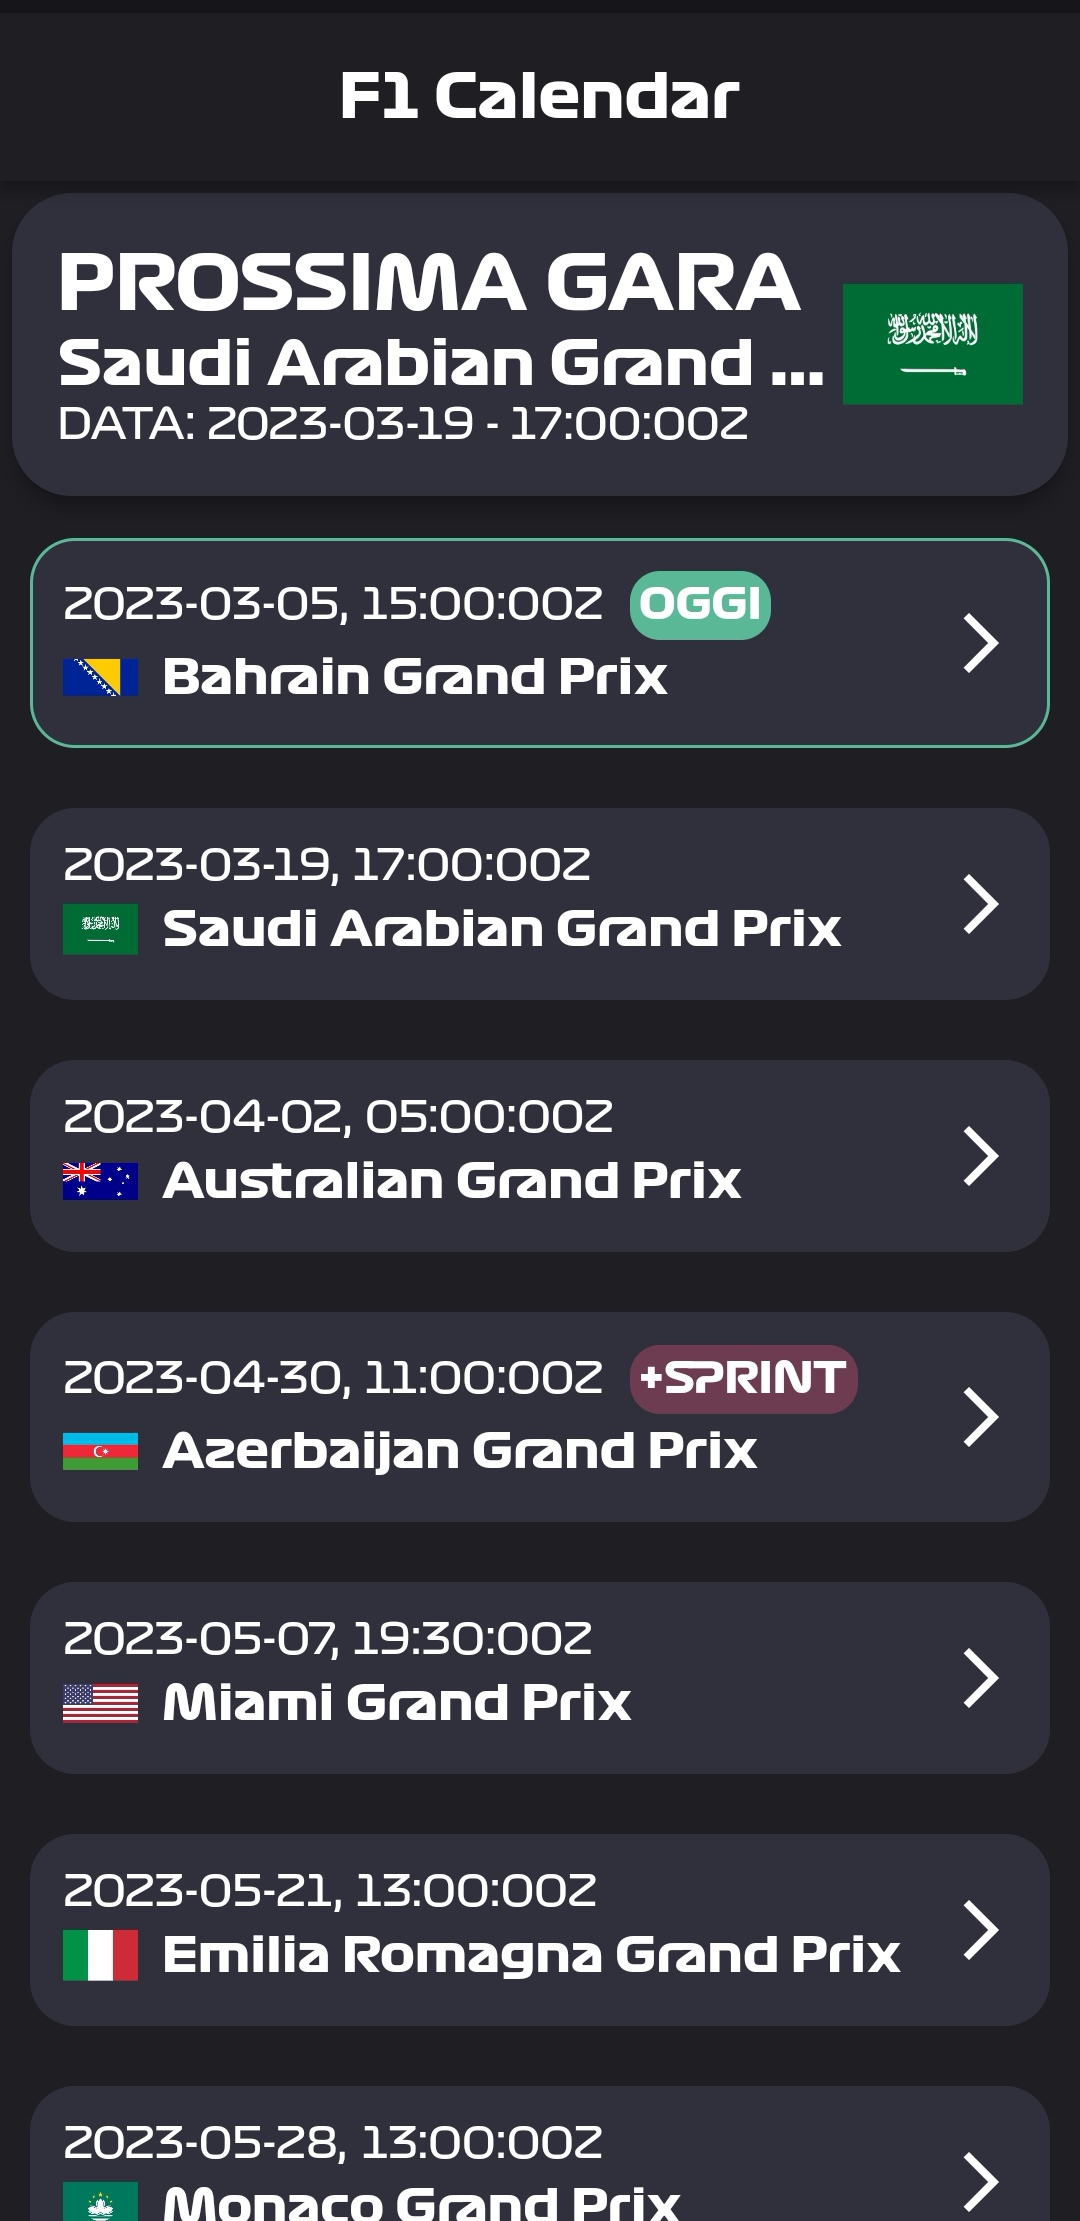
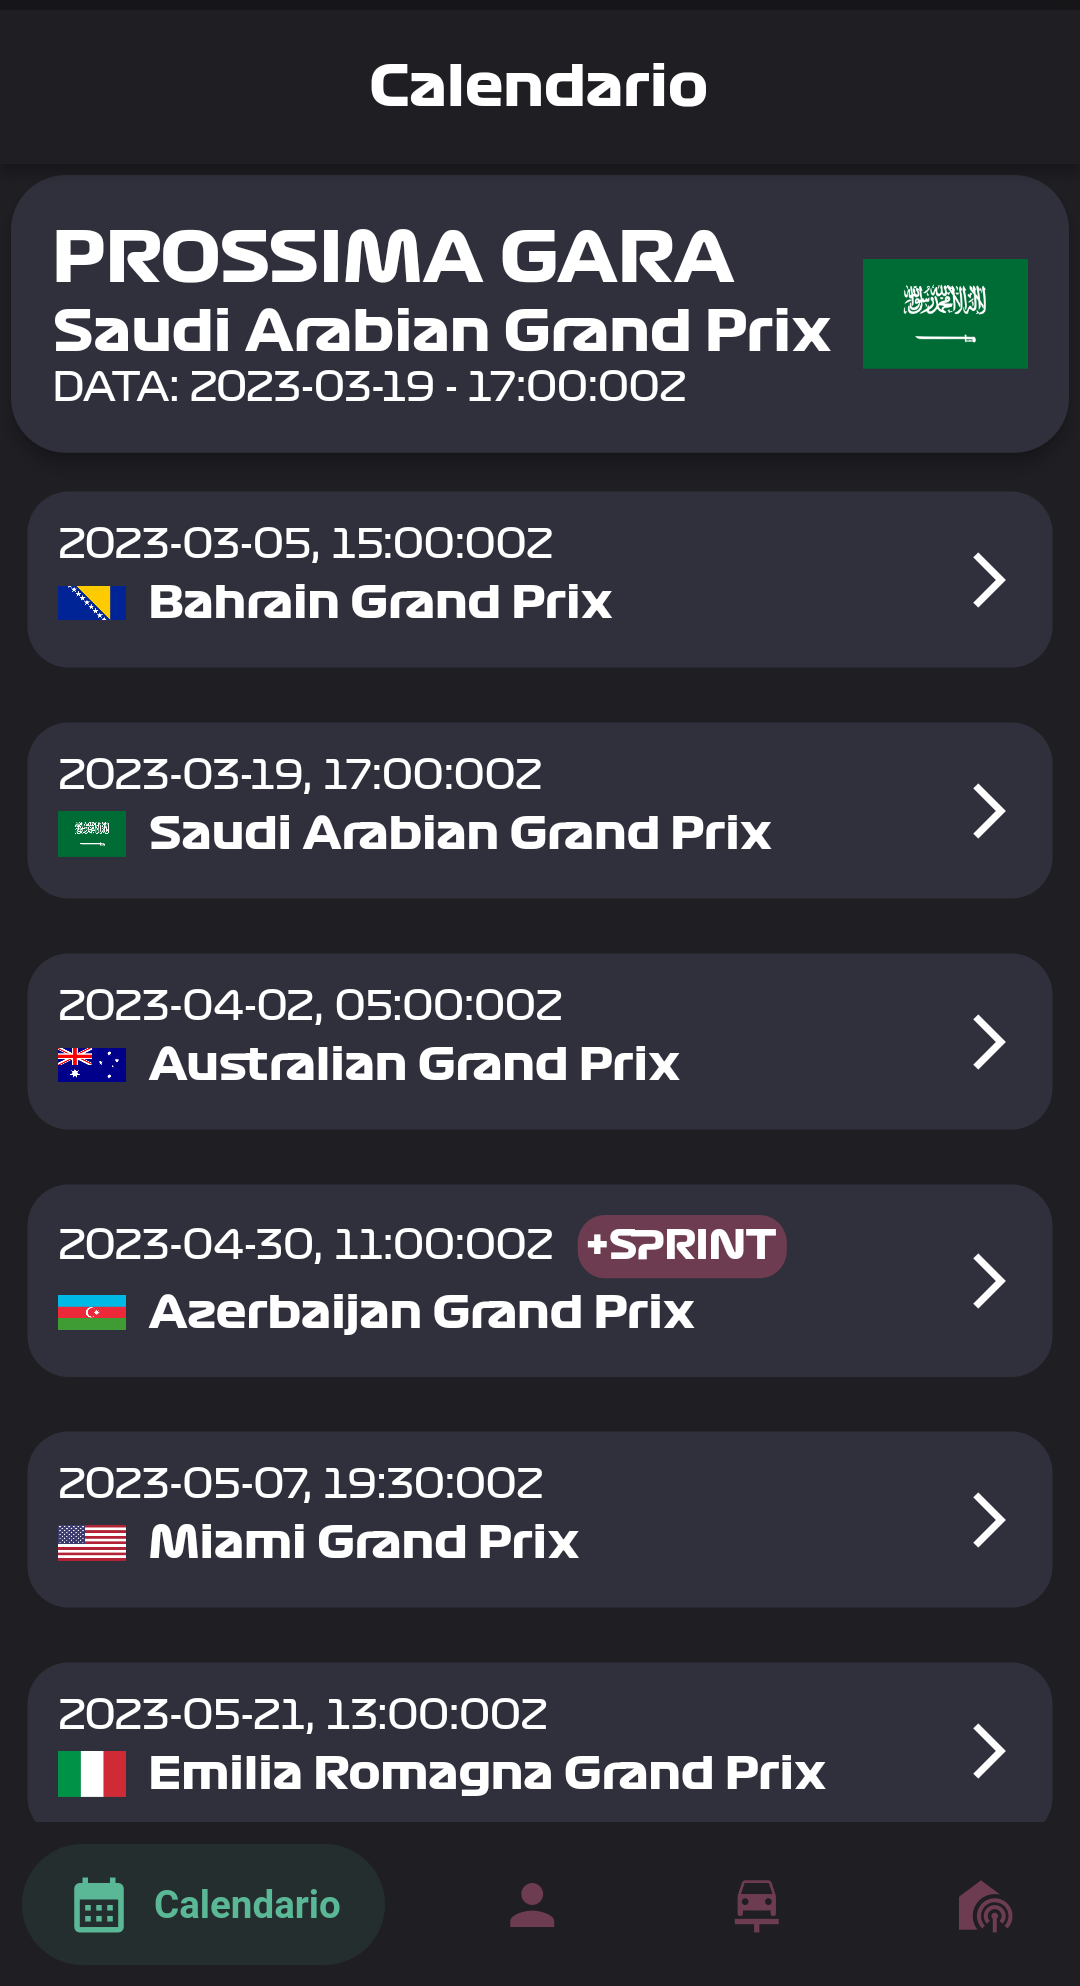
added bottom navigation

diff --git a/lib/common/bottom_bar.dart b/lib/common/bottom_bar.dart
@@ -1,0 +1,87 @@
+import "package:flutter/material.dart";
+import "package:paddock_club/pages/calendar_page.dart";
+import "package:paddock_club/pages/driver_stand.dart";
+import "package:paddock_club/pages/team_overview.dart";
+import "package:paddock_club/pages/team_standing.dart";
+import "package:salomon_bottom_bar/salomon_bottom_bar.dart";
+
+import "colors.dart";
+
+Widget? getBottomBar(int index, BuildContext context) {
+  return SalomonBottomBar(
+    currentIndex: index,
+    unselectedItemColor: AppColor.detailsSecondary,
+    onTap: (i) {
+      switch (i) {
+        case 0:
+          Navigator.pushReplacement(
+            context,
+            MaterialPageRoute(
+              builder: (context) => const CalendarPage(),
+            ),
+          );
+          break;
+        case 1:
+        Navigator.pushReplacement(
+            context,
+            MaterialPageRoute(
+              builder: (context) => const DriverStandingPage(),
+            ),
+          );
+          break;
+        case 2:
+        Navigator.pushReplacement(
+            context,
+            MaterialPageRoute(
+              builder: (context) => const TeamStandingPage(),
+            ),
+          );
+          break;
+        case 3:
+        Navigator.pushReplacement(
+            context,
+            MaterialPageRoute(
+              builder: (context) => const TeamOverviewPage(),
+            ),
+          );
+          break;
+        default:
+          Navigator.push(
+            context,
+            MaterialPageRoute(
+              builder: (context) => const CalendarPage(),
+            ),
+          );
+      }
+    },
+    items: [
+      /// Calendar
+      SalomonBottomBarItem(
+        icon: const Icon(Icons.calendar_month),
+        title: const Text("Calendario"),
+        selectedColor: AppColor.details,
+      ),
+
+      /// Team standing
+      SalomonBottomBarItem(
+        icon: const Icon(Icons.person),
+        title: const Text("Classifica Piloti"),
+        selectedColor: AppColor.details,
+      ),
+
+      /// Constructor standing
+      SalomonBottomBarItem(
+        icon: const Icon(Icons.car_repair),
+        title: const Text("Classifica Costruttori"),
+        selectedColor: AppColor.details,
+      ),
+
+      /// Teams Overview
+      SalomonBottomBarItem(
+        icon: const Icon(Icons.broadcast_on_personal),
+        title: const Text("Overview Team"),
+        selectedColor: AppColor.details,
+      ),
+    ],
+  );
+}

diff --git a/lib/pages/calendar_page.dart b/lib/pages/calendar_page.dart
@@ -1,9 +1,11 @@
 import "package:flutter/material.dart";
+import "package:paddock_club/common/bottom_bar.dart";
 import "package:paddock_club/common/colors.dart";
 import "package:paddock_club/controller/calendar_api.dart";
 import "package:paddock_club/model/calendar_model.dart";
 import "package:paddock_club/widget/calendar_list.dart";
 import "package:paddock_club/widget/next_race.dart";
+import "package:salomon_bottom_bar/salomon_bottom_bar.dart";
 
 class CalendarPage extends StatefulWidget {
   const CalendarPage({super.key});
@@ -52,11 +54,12 @@ class _CalendarPageState extends State<CalendarPage> {
       appBar: AppBar(
         backgroundColor: AppColor.background,
         title: const Text(
-          "F1 Calendar",
+          "Calendario",
           style: TextStyle(fontFamily: "F1Bold"),
         ),
         centerTitle: true,
       ),
+      bottomNavigationBar: getBottomBar(0, context),
       body: SingleChildScrollView(
         physics: const BouncingScrollPhysics(),
         child: Column(

diff --git a/lib/pages/driver_stand.dart b/lib/pages/driver_stand.dart
@@ -1,0 +1,30 @@
+import "package:flutter/material.dart";
+
+import "../common/bottom_bar.dart";
+import "../common/colors.dart";
+
+class DriverStandingPage extends StatefulWidget {
+  const DriverStandingPage({super.key});
+
+  @override
+  State<DriverStandingPage> createState() => _DriverStandingPageState();
+}
+
+class _DriverStandingPageState extends State<DriverStandingPage> {
+  @override
+  Widget build(BuildContext context) {
+    return Scaffold(
+      backgroundColor: AppColor.background,
+      appBar: AppBar(
+        backgroundColor: AppColor.background,
+        title: const Text(
+          "Classifica Piloti",
+          style: TextStyle(fontFamily: "F1Bold"),
+        ),
+        centerTitle: true,
+      ),
+      bottomNavigationBar: getBottomBar(1, context),
+      body: Placeholder(),
+    );
+  }
+}

diff --git a/lib/pages/team_overview.dart b/lib/pages/team_overview.dart
@@ -1,0 +1,31 @@
+import "package:flutter/material.dart";
+
+import "../common/bottom_bar.dart";
+import "../common/colors.dart";
+
+
+class TeamOverviewPage extends StatefulWidget {
+  const TeamOverviewPage({super.key});
+
+  @override
+  State<TeamOverviewPage> createState() => _TeamOverviewPageState();
+}
+
+class _TeamOverviewPageState extends State<TeamOverviewPage> {
+  @override
+  Widget build(BuildContext context) {
+    return Scaffold(
+      backgroundColor: AppColor.background,
+      appBar: AppBar(
+        backgroundColor: AppColor.background,
+        title: const Text(
+          "Classifica Costruttori",
+          style: TextStyle(fontFamily: "F1Bold"),
+        ),
+        centerTitle: true,
+      ),
+      bottomNavigationBar: getBottomBar(3, context),
+      body: Placeholder(),
+    );
+  }
+}

diff --git a/lib/pages/team_standing.dart b/lib/pages/team_standing.dart
@@ -1,0 +1,30 @@
+import "package:flutter/material.dart";
+
+import "../common/bottom_bar.dart";
+import "../common/colors.dart";
+
+class TeamStandingPage extends StatefulWidget {
+  const TeamStandingPage({super.key});
+
+  @override
+  State<TeamStandingPage> createState() => _TeamStandingPageState();
+}
+
+class _TeamStandingPageState extends State<TeamStandingPage> {
+  @override
+  Widget build(BuildContext context) {
+    return Scaffold(
+      backgroundColor: AppColor.background,
+      appBar: AppBar(
+        backgroundColor: AppColor.background,
+        title: const Text(
+          "Overview Team",
+          style: TextStyle(fontFamily: "F1Bold"),
+        ),
+        centerTitle: true,
+      ),
+      bottomNavigationBar: getBottomBar(2, context),
+      body: Placeholder(),
+    );
+  }
+}

diff --git a/README.md b/README.md
@@ -16,7 +16,6 @@ Formula 1 Paddock Club: the new companion app for F1 fans with a lot of features
 - [ ] Drivers Standing
 - [ ] Constructors Standing
 - [ ] Teams Overview
-- [ ] Bottom Navigation Bar
 
 ---
 
